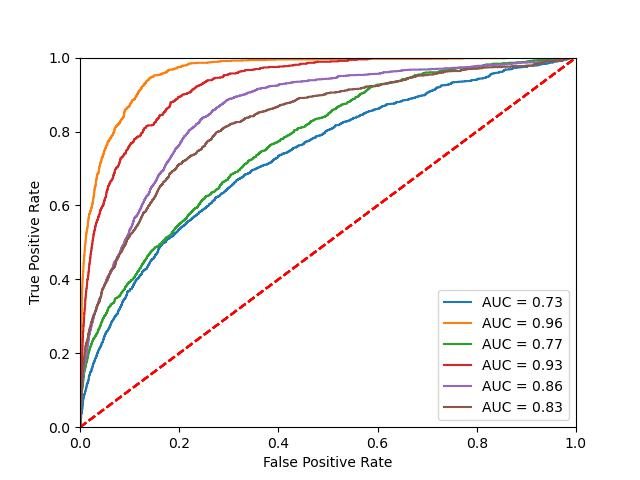
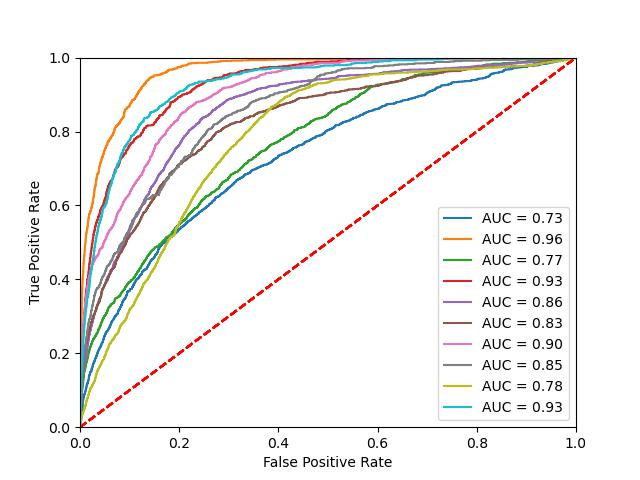
Add old code with val

diff --git a/test_lstm.py b/test_lstm.py
@@ -4,6 +4,7 @@ import numpy as np
 import sklearn.metrics as metrics
 from matplotlib import pyplot as plt
 from random import random
+from sklearn.model_selection import train_test_split
 
 from keras.models import Sequential
 from keras.layers import LSTM
@@ -93,6 +94,8 @@ for test_user in os.listdir(data_path):
     print(X_train.shape)
     print(y_train.shape)
 
+    X_train, X_val, y_train, y_val = train_test_split(X_train, y_train, test_size=0.2)
+
     model = Sequential()
     model.add(Conv1D(filters=64, kernel_size=5, padding='same', activation='relu'))
     model.add(MaxPooling1D(pool_size=4))
@@ -102,7 +105,7 @@ for test_user in os.listdir(data_path):
     model.add(Dropout(0.2))
     model.add(Dense(1))
     model.compile(optimizer='adam', loss='mean_squared_error', metrics=['accuracy'])
-    model.fit(X_train, y_train, epochs=100, batch_size=64, validation_data=(X_test, y_test))
+    model.fit(X_train, y_train, epochs=50, batch_size=64, validation_data=(X_val, y_val))
     
     y_pred = model.predict(X_test).ravel()
     y_test = y_test.flatten()
@@ -116,7 +119,7 @@ for test_user in os.listdir(data_path):
     plt.ylim([0, 1])
     plt.ylabel('True Positive Rate')
     plt.xlabel('False Positive Rate')
-    plt.savefig("./lstm_results.jpg")
+    plt.savefig("./lstm_results_val.jpg")
     # plt.show()
     # break
     # import visualkeras
